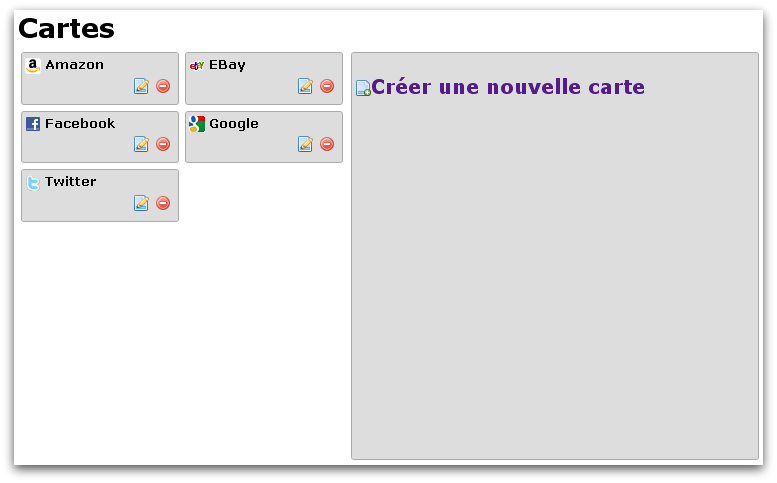
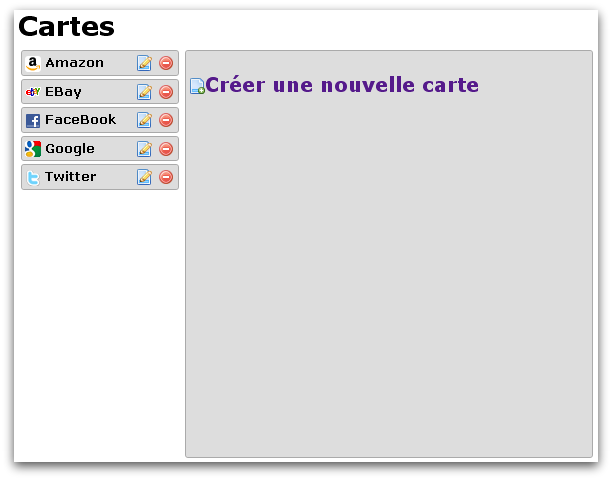
revamped the look of the cards list, in order to take les vertical and horizontal space added deploy task to ant build

Changed region(s): [[0.0, 0.0312, 0.9935, 0.9688]]

diff --git a/trunk/war/css/main.css b/trunk/war/css/main.css
@@ -134,7 +134,6 @@ img {
  */
 div#cards {
   padding: 0;
-  min-width: 330px;
   float: left;
 }
 div.card, div#cardDetails, div#features, div#resume {
@@ -147,7 +146,8 @@ div.card, div#cardDetails, div#features, div#resume {
 }
 div.card {
   min-width: 150px;
-  float: left;
+  max-width: 290px;
+  position: relative;
 }
 div#cardDetails {
   min-width: 400px;
@@ -155,7 +155,7 @@ div#cardDetails {
   float: left;
   position: relative;
 }
-div#cardDetails h2 a{
+div#cardDetails h2 a {
   text-decoration: none;
 }
 div.spacer {
@@ -169,8 +169,15 @@ div.card a {
   text-decoration: none;
   color: black;
 }
+#body div.cardName {
+  margin-right: 40px;
+  padding: 0;
+}
 div.cardLinks {
   text-align: right;
+  position: absolute;
+  top: 0;
+  right: 0;
 }
 div.cardLinks a {
   display: inline;
@@ -184,7 +191,6 @@ div.cardLinks a img:hover {
 div#cardDetailsLinks {
   position: absolute;
   bottom: 0px;
-  right: 0px;
   width: 100%;
 }
 img.cardIcon, img.loading, img.icon {

diff --git a/trunk/test/src/com/googlecode/memwords/web/integration/cards/CardDetailsTest.java b/trunk/test/src/com/googlecode/memwords/web/integration/cards/CardDetailsTest.java
@@ -73,12 +73,12 @@ public class CardDetailsTest {
 
         // the details div content has been replaced by the create card form
         getFirstLinkByText(page.getHtmlElementById("cards"), "card1").click();
-        HtmlAnchor modifyLink = getFirstLinkByTitle(detailsDiv, "Modify this card");
+        HtmlAnchor modifyLink = getFirstLinkByText(detailsDiv, "Modify this card");
         modifyLink.click();
         assertNotNull(page.getHtmlElementById("modifyCardForm"));
 
         getFirstLinkByText(page.getHtmlElementById("cards"), "card1").click();
-        HtmlAnchor deleteLink = getFirstLinkByTitle(detailsDiv, "Delete this card");
+        HtmlAnchor deleteLink = getFirstLinkByText(detailsDiv, "Delete this card");
         deleteLink.click();
         assertNotNull(page.getHtmlElementById("deleteCardForm"));
     }
@@ -104,11 +104,11 @@ public class CardDetailsTest {
         HtmlPage createPage = createLink.click();
         testTitle(createPage, "Create a card");
 
-        HtmlAnchor modifyLink = getFirstLinkByTitle(detailsDiv, "Modify this card");
+        HtmlAnchor modifyLink = getFirstLinkByText(detailsDiv, "Modify this card");
         HtmlPage modifyPage = modifyLink.click();
         testTitle(modifyPage, "Modify a card");
 
-        HtmlAnchor deleteLink = getFirstLinkByTitle(detailsDiv, "Delete this card");
+        HtmlAnchor deleteLink = getFirstLinkByText(detailsDiv, "Delete this card");
         HtmlPage deletePage = deleteLink.click();
         testTitle(deletePage, "Delete a card");
     }
